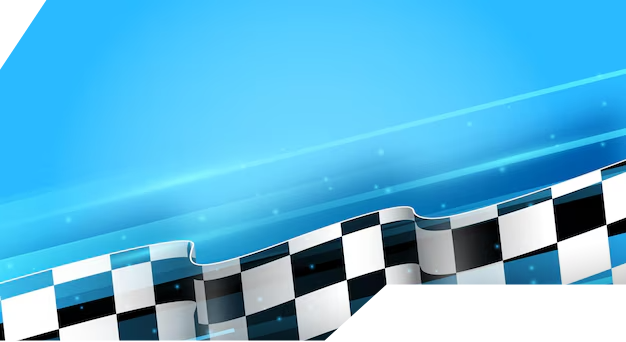
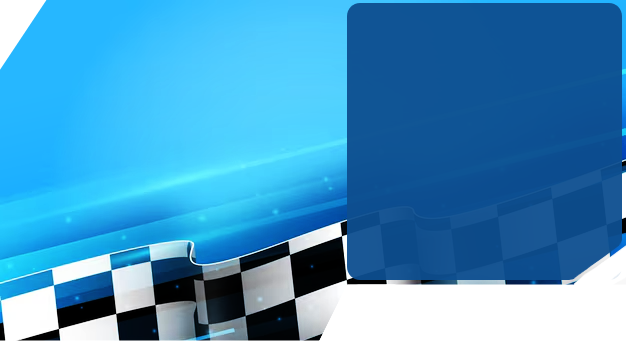
carrusel de personajes listo

diff --git a/web/chokart/src/app/components/character-galleria/character-galleria.component.css b/web/chokart/src/app/components/character-galleria/character-galleria.component.css
@@ -6,19 +6,19 @@
 .carrusel {
   background-image: url("/home/carrusel-bg.webp");
   width: 626px;
-  height: 348px;
+  height: 342px;
   background-size: cover;
   background-repeat: no-repeat;
+  filter: drop-shadow(1px 1px 1px white) drop-shadow(-1px 0 1px white)
+    drop-shadow(5px 5px 15px #13a0dcd5);
 }
 
 .character-card {
   height: 250px;
   display: grid;
-  grid-template-columns: 1fr 1fr;
-  align-items: center;
+  grid-template-columns: 56% 44%;
   color: white;
   border-radius: 20px;
-  padding: 2rem;
   gap: 1rem;
   justify-items: center;
   position: relative;
@@ -28,7 +28,8 @@
 .character-img {
   height: 300px;
   position: relative;
-  top: -100px;
+  top: -70px;
+  margin-left: 3rem;
   -webkit-filter: drop-shadow(5px 5px 5px #ffffff);
   filter: drop-shadow(5px 5px 5px #ffffff);
 }
@@ -40,26 +41,64 @@
 }
 
 :host ::ng-deep .p-galleria-thumbnails-content {
-  width: 60%;
+  width: 56%;
   background-color: #00000000;
 }
 
-:host ::ng-deep .p-galleria-thumbnail-item {
-  opacity: 0.8;
+:host ::ng-deep .p-ripple {
+  background-color: #0e5395;
+  color: #ffffff;
+  border-radius: 80px;
+  border: 3px solid white;
 }
 
-@media screen and (max-width: 1300px) {
-  :host ::ng-deep #pn_id_1 .p-galleria-thumbnail-item {
-    width: 50px;
-    background-color: rgb(0, 119, 255);
-    border: 2px solid #fff;
-    border-radius: 0.2rem;
-    box-shadow: 0 0 5px #fff, 0 0 5px #fff, 0 6px #ffffff, 0 0 7px #ffffff,
-      0 0 8px #ffffff, inset 0 0 10px #ffffff;
-    margin: 0 10px;
-  }
+:host ::ng-deep #pn_id_1 .p-galleria-thumbnail-item {
+  width: 50px;
+  background: #1370b3;
+  background: linear-gradient(
+    168deg,
+    rgba(72, 161, 224, 1) 0%,
+    rgba(0, 66, 120, 1) 100%
+  );
+  border: 2px solid #fff;
+  border-radius: 0.2rem;
+  box-shadow: 0 0 5px #fff, 0 0 5px #fff, 0 6px #ffffff, 0 0 7px #ffffff,
+    0 0 8px #ffffff, inset 0 0 10px #ffffff;
+  margin: 0 10px;
+}
 
-  :host ::ng-deep #pn_id_1 .p-galleria-thumbnail-item {
-    flex: 1 0 25%;
-  }
+:host ::ng-deep #pn_id_1 .p-galleria-thumbnail-item {
+  flex: 1 0 25%;
+}
+
+.info {
+  height: 70%;
+  display: flex;
+  flex-direction: column;
+}
+
+.info h2 {
+  color: rgb(255, 255, 255);
+  text-shadow: 2px 0px 5px #001757;
+  font-size: 3rem;
+  text-transform: uppercase;
+  font-family: "Road Rage", sans-serif;
+}
+
+.info p {
+  width: 90%;
+  font-family: system-ui, -apple-system, BlinkMacSystemFont, "Segoe UI", Roboto,
+    Oxygen, Ubuntu, Cantarell, "Open Sans", "Helvetica Neue", sans-serif, Arial,
+    sans-serif;
+}
+
+.item {
+  width: fit-content;
+  background-color: var(--primary-color);
+  color: black;
+  border-radius: 0px 0px 72px 0px / 0px 0px 148px 0px;
+  font-family: "Road Rage", sans-serif;
+  font-size: 1.5rem;
+  padding: 3px 12px;
+  margin: 0.4rem 0;
 }

diff --git a/web/chokart/src/app/components/character-galleria/character-galleria.component.html b/web/chokart/src/app/components/character-galleria/character-galleria.component.html
@@ -10,13 +10,25 @@
     >
       <ng-template pTemplate="item" let-character>
         <div class="character-card">
+          <!--imagen-->
           <img class="character-img" [src]="character.image" />
+
+          <!--texto de cada personaje-->
           <div class="info">
             <h2>{{ character.name }}</h2>
+            <span class="item">{{ t("item") }}</span>
+            <br />
+            <p style="text-transform: uppercase">
+              <i>
+                <b>{{ t("skills") }}</b></i
+              >
+            </p>
             <p class="quote">{{ t(character.quoteKey) }}</p>
           </div>
         </div>
       </ng-template>
+
+      <!--thumb-->
       <ng-template pTemplate="thumbnail" let-item>
         <img [src]="item.miniImage" style="height: 55px" />
       </ng-template>

diff --git a/web/chokart/src/app/pages/home/home.component.css b/web/chokart/src/app/pages/home/home.component.css
@@ -71,3 +71,38 @@ h1 {
 .home-content {
   color: white;
 }
+
+.landing1 {
+  text-align: center;
+  padding: 5rem;
+}
+
+.home-content h1 {
+  font-size: 3rem;
+  margin-bottom: 1rem;
+}
+
+.home-content p {
+  font-family: system-ui, -apple-system, BlinkMacSystemFont, "Segoe UI", Roboto,
+    Oxygen, Ubuntu, Cantarell, "Open Sans", "Helvetica Neue", sans-serif, Arial,
+    sans-serif;
+}
+
+.characters {
+  display: flex;
+  gap: 2rem;
+  margin-top: 1rem;
+  margin: 2rem 10rem;
+  padding-bottom: 3rem;
+}
+
+.text-characters {
+  width: 45%;
+  margin: 0 3rem;
+}
+
+.play-modes {
+  background-image: url("/home/home-bg2.webp");
+  background-size: cover;
+  margin-top: -85px;
+}

diff --git a/web/chokart/src/app/pages/home/home.component.html b/web/chokart/src/app/pages/home/home.component.html
@@ -39,13 +39,27 @@
   </div>
 
   <div class="characters">
-    <div>
+    <div class="text-characters">
       <h1>{{ t("landing-h1-character") }}</h1>
       <p>{{ t("landing-p-character") }}</p>
     </div>
     <!--carrusel personajes-->
     <div>
       <app-character-galleria></app-character-galleria>
+    </div>
+  </div>
+
+  <br /><br />
+  <div class="play-modes">
+    <!--un switch con los dos modos-->
+    <h1>Diversión a tu manera</h1>
+    <div class="survival">
+      <h2>SURVIVAL</h2>
+      <p>Quien quede ultimo, gana</p>
+    </div>
+    <div class="racing">
+      <h2>CARRERA</h2>
+      <p>Gna quien llegue antes</p>
     </div>
   </div>
 </div>
